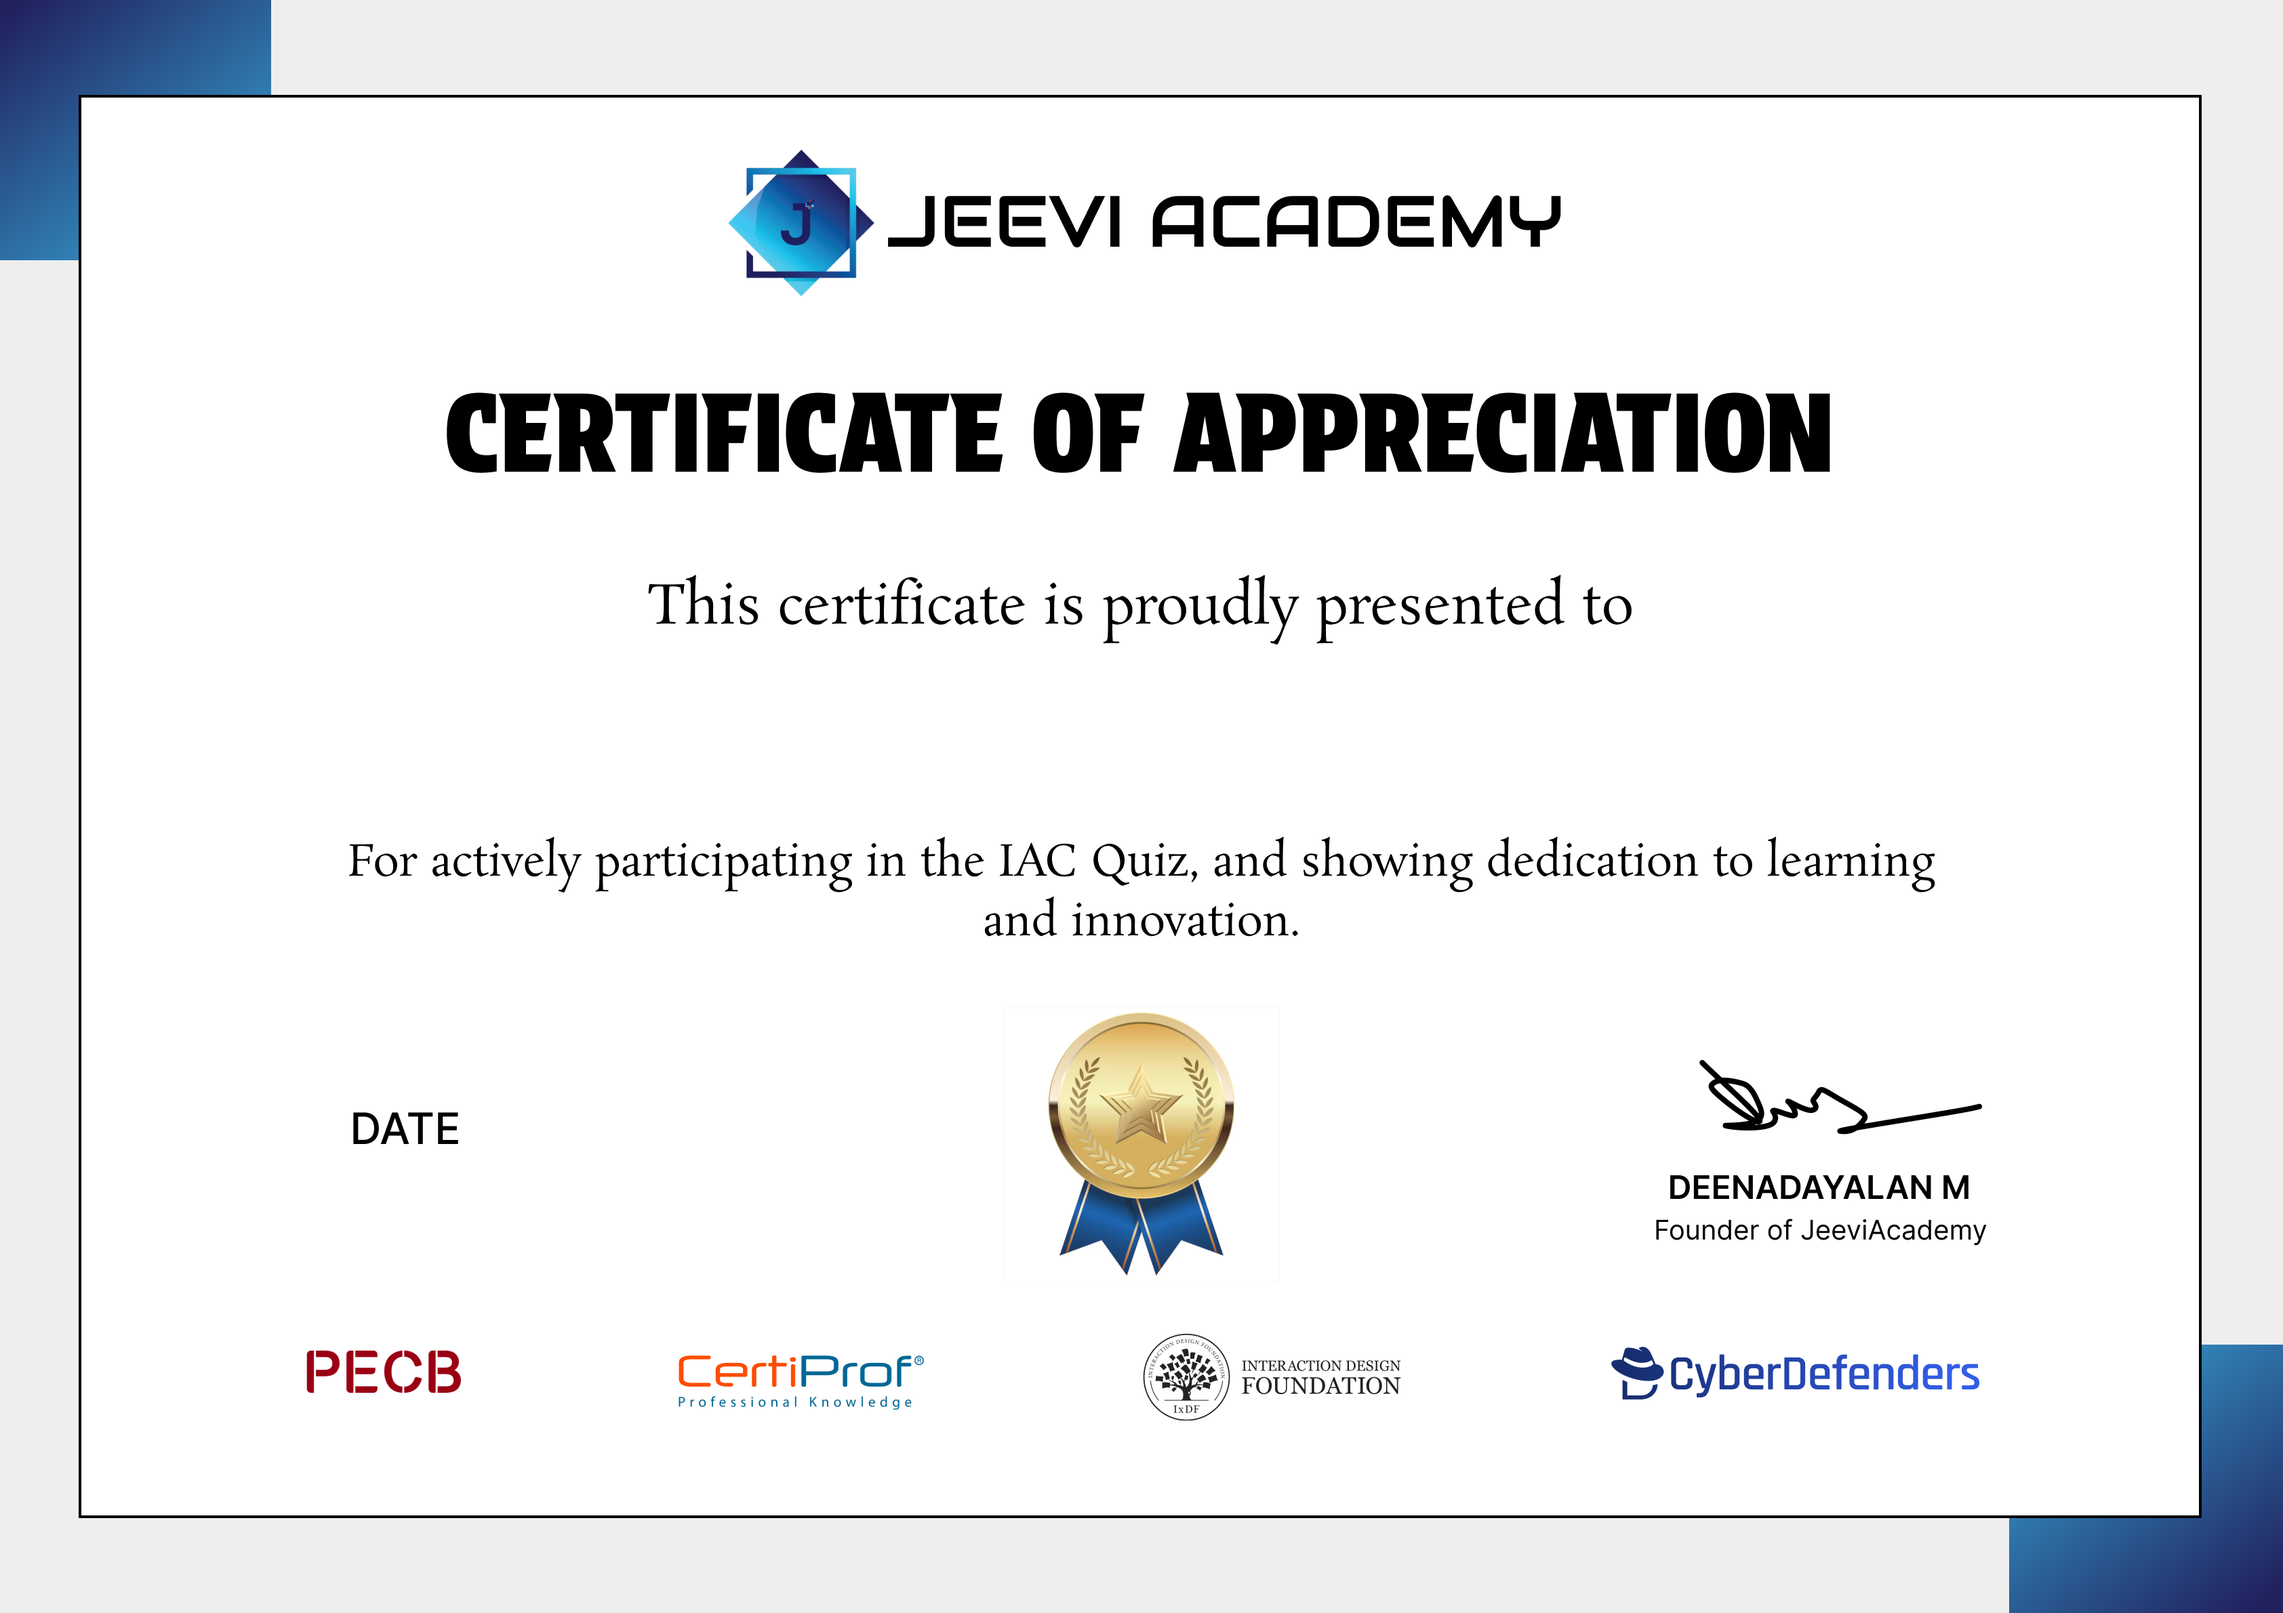
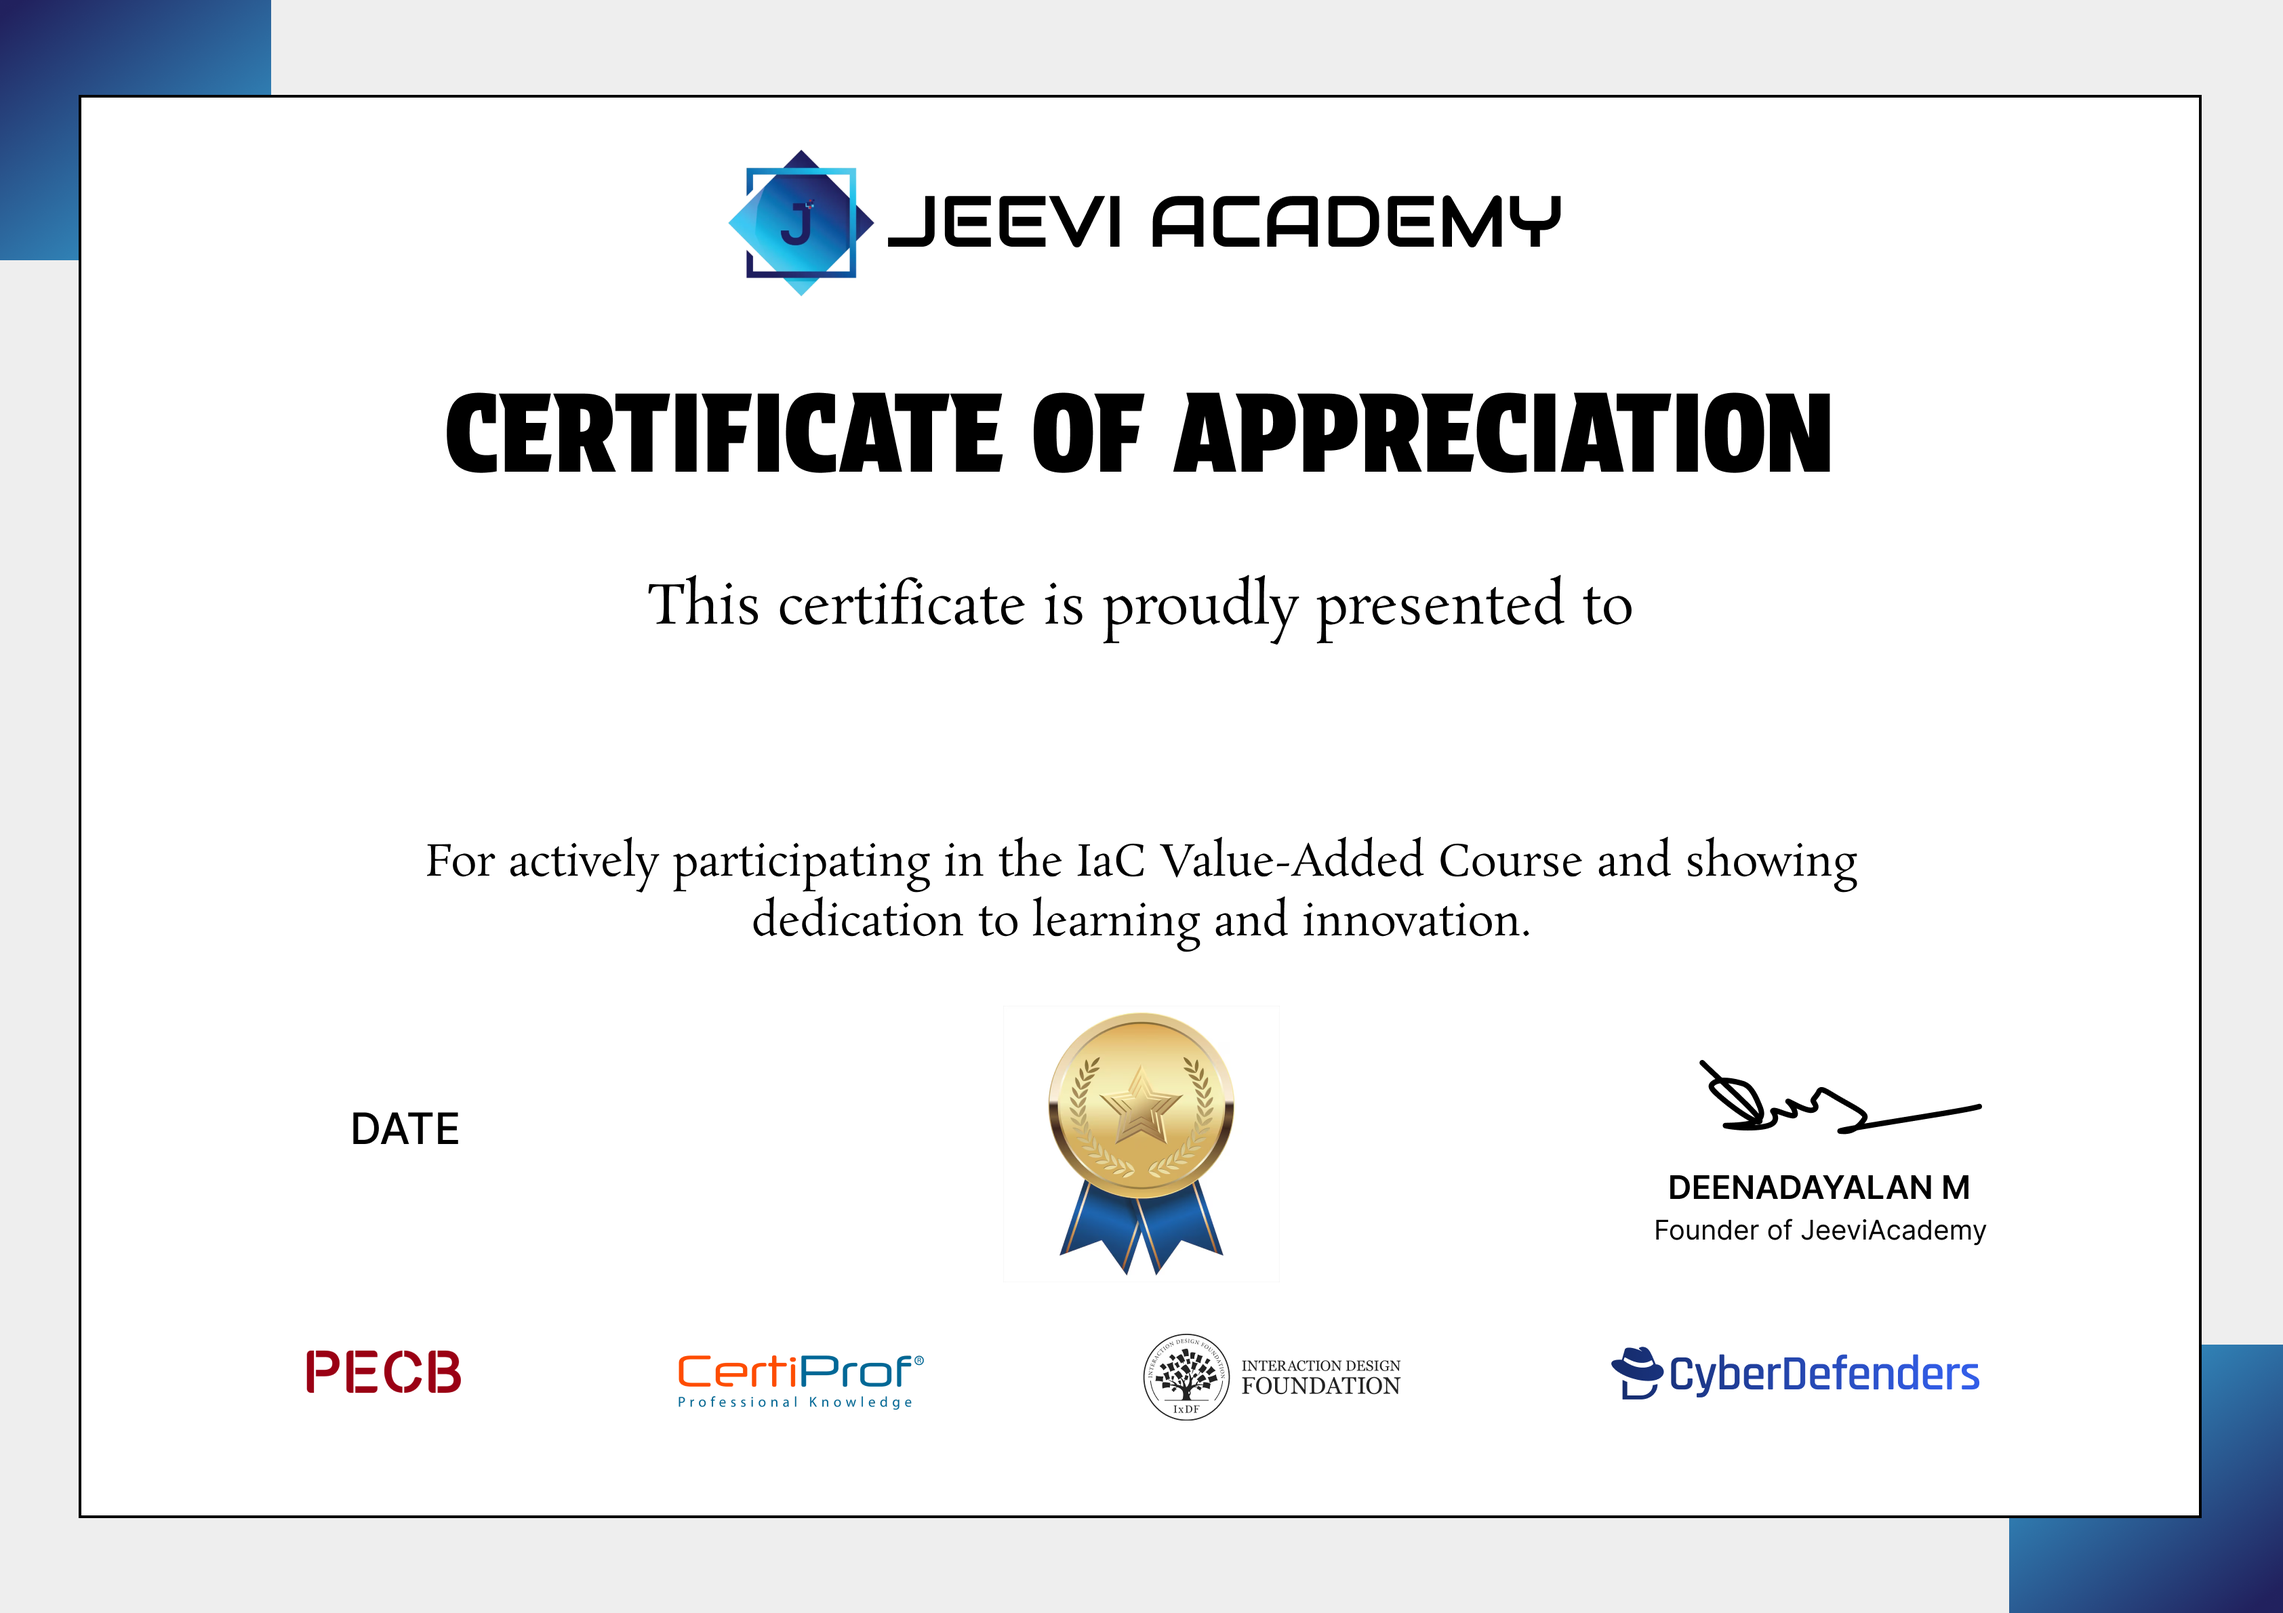
Update k8s-quiz Certificate name updated

Changed region(s): [[0.1559, 0.5286, 0.8417, 0.5908]]

diff --git a/k8s-quiz/templates/name.html b/k8s-quiz/templates/name.html
@@ -8,7 +8,7 @@
 <body>
   <main class="screen">
     <section class="quiz-card">
-      <h1>Docker & Kubernetes Quiz</h1>
+      <h1>IaC Value Added Course Quiz</h1>
       <p class="subtle">Please enter your full name to continue.</p>
       {% if error %}<div class="error">{{ error }}</div>{% endif %}
       <form method="post" action="/">

diff --git a/k8s-quiz/templates/quiz.html b/k8s-quiz/templates/quiz.html
@@ -9,7 +9,7 @@
 <body>
 <main class="screen">
   <section class="quiz-card">
-    <h1>Docker & Kubernetes Quiz</h1>
+    <h1>IaC Value Added Course Quiz</h1>
 
     <div class="progress">
       <div class="progress-bar"><div id="progress-fill" class="progress-fill"></div></div>
